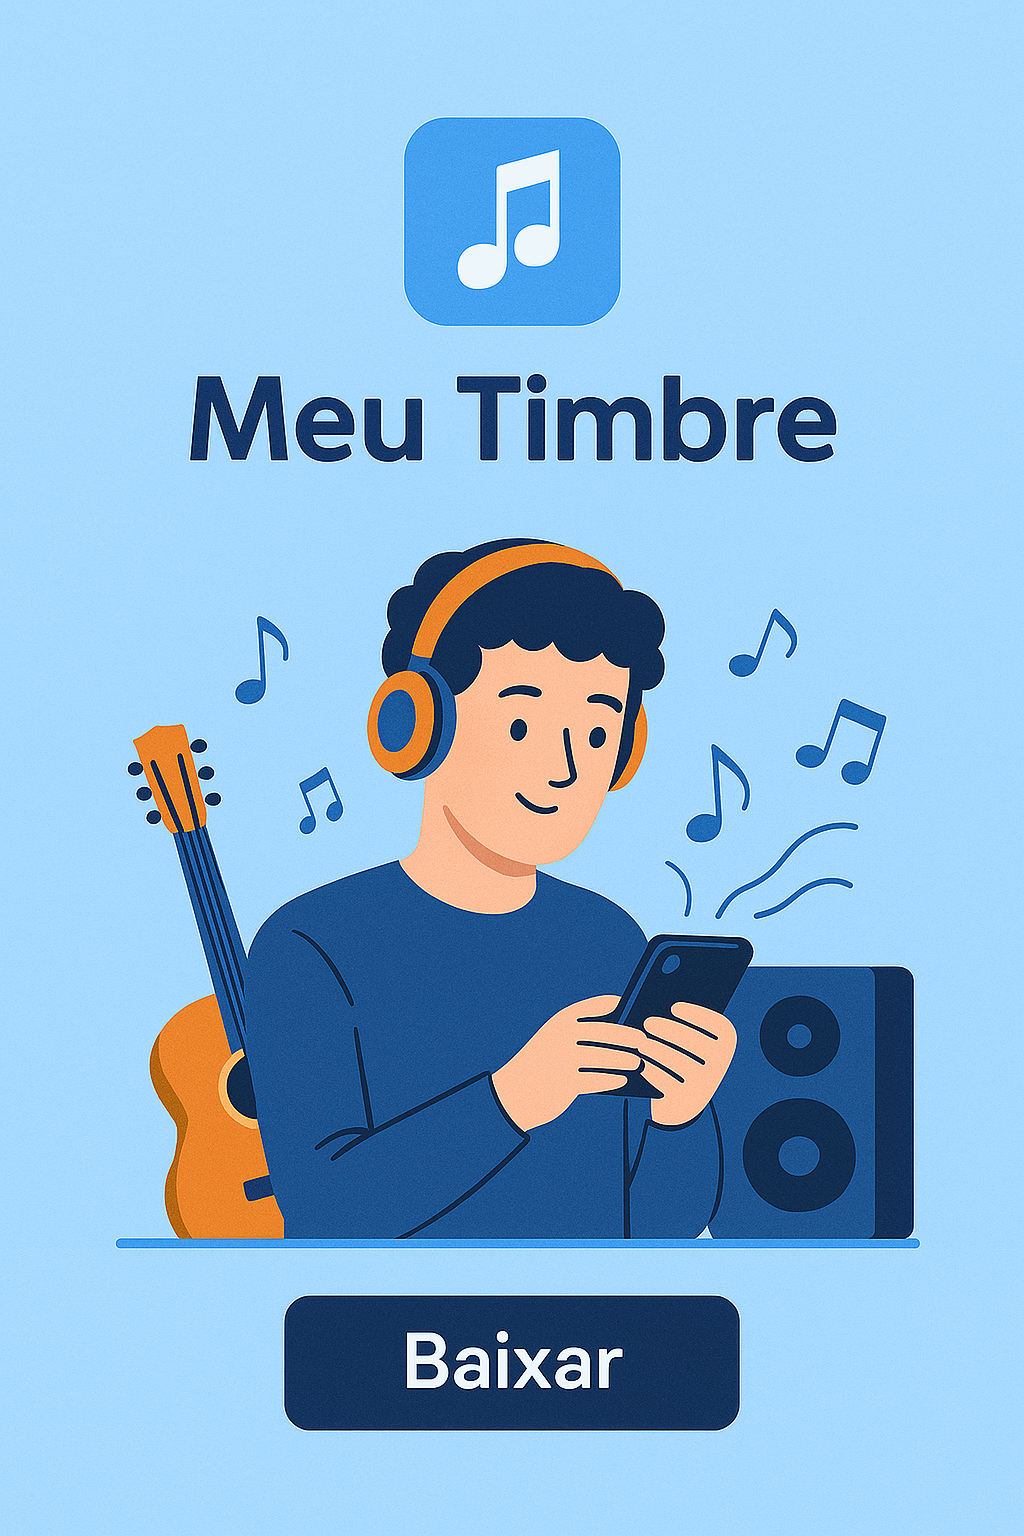
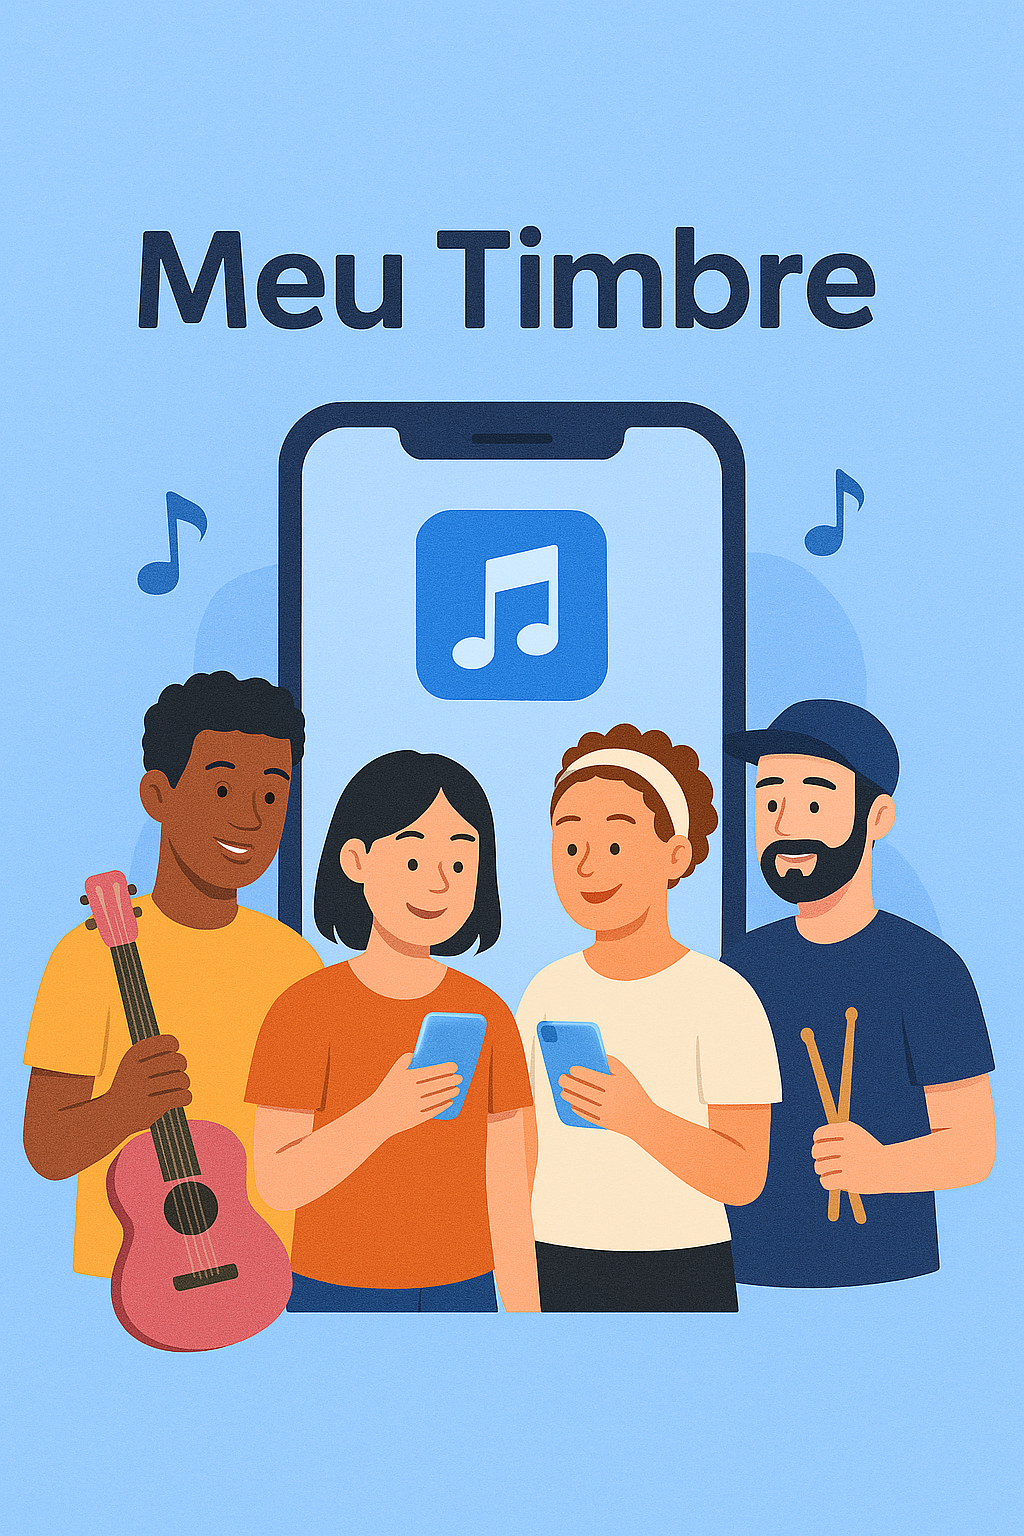
Oitavo Commit

diff --git a/src/App.js b/src/App.js
@@ -8,7 +8,8 @@ import {
   MDBRow,
   MDBCol,
   MDBInput,
-  MDBCheckbox
+  MDBCheckbox,
+  MDBCarousel, MDBCarouselItem 
 }
 from 'mdb-react-ui-kit';
 
@@ -20,7 +21,18 @@ function App() {
         <MDBRow className='g-0 d-flex align-items-center'>
 
           <MDBCol md='4'>
-            <MDBCardImage src='./img/image.png' alt='phone' className='rounded-t-5 rounded-tr-lg-0' fluid />
+            
+            <MDBCarousel showControls showIndicators>
+              <MDBCarouselItem itemId={1}>
+                <MDBCardImage src='./img/image.png' alt='phone' className='rounded-t-5 rounded-tr-lg-0' fluid />
+              </MDBCarouselItem>
+              <MDBCarouselItem itemId={2}>
+                <MDBCardImage src='./img/image2.png' alt='phone' className='rounded-t-5 rounded-tr-lg-0' fluid />
+              </MDBCarouselItem>
+              <MDBCarouselItem itemId={3}>
+                <MDBCardImage src='./img/image3.png' alt='phone' className='rounded-t-5 rounded-tr-lg-0' fluid />
+              </MDBCarouselItem>
+            </MDBCarousel>
           </MDBCol>
 
           <MDBCol md='8'>
